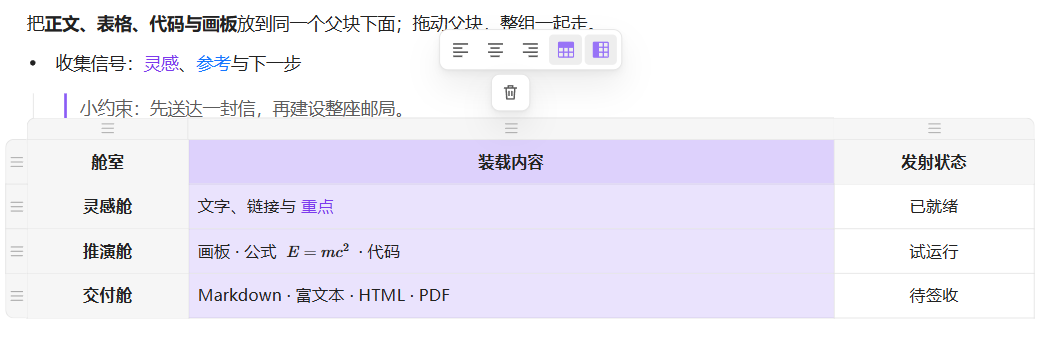
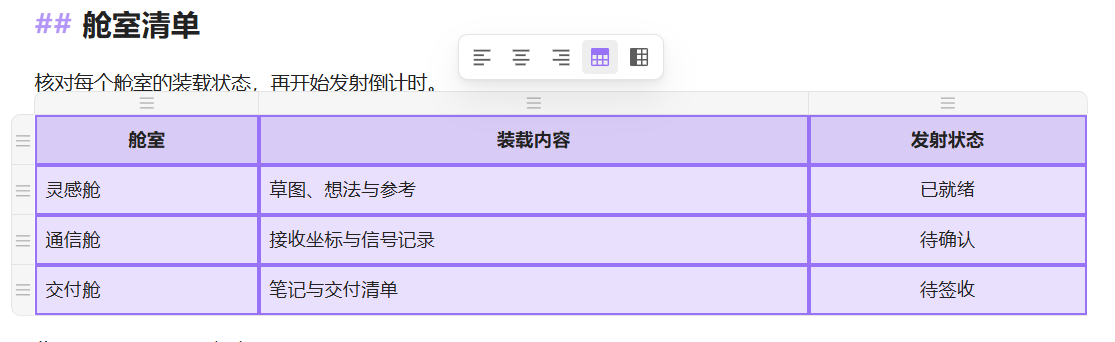
docs: refresh README feature screenshots

diff --git a/README.md b/README.md
@@ -12,19 +12,25 @@
 
 The **Moonpost** demo brings a small project's plan, sketches and deliverables into one note. These are real editor screenshots, using synthetic content.
 
-## Structure beyond a list
+## Block hierarchy and heading lists
 
 Nest paragraphs, tables, quotes, code and media under the same parent. Drag the parent to move the group, use Tab / Shift+Tab to adjust depth, and fold list children when you need less detail. Hierarchy guides keep the relationships visible.
 
-Heading numbers such as **1.2.3** follow the actual heading levels and appear in Obsidian's native outline. Body lists keep their own numbering.
+H1–H4 can mix unordered and ordered list styles and appear in Obsidian’s native outline. When a level uses both styles, both buttons light up. Click either to apply one style across that level.
 
-![Mixed child blocks, heading numbering and hierarchy guides](assets/tour-structure.png)
+![Both H2 styles are active in the heading list menu, with different prefixes and a nested quote in the note](assets/tour-heading-lists.png)
 
 ## Tables that you can work in
 
-Select cells, rectangles, rows or columns; adjust alignment and header rows/columns from the floating toolbar. Paste a grid at the selected cell to fill and expand the table, with one-step undo. Wide tables scroll horizontally with directional edge hints.
+Select cells, regions, rows, columns or whole tables. A drag selection across body text and a table treats the selected table as a block. Undo restores deleted tables. Use the floating toolbar to adjust alignment and headers, or paste a grid to expand the table as needed.
 
-![Column selection, distinct header shading and floating table controls](assets/tour-table.png)
+![A whole table is selected with its floating toolbar above it](assets/tour-table.png)
+
+## Give AI your note context
+
+Select text and choose **Copy as AI quote** from the context menu, or use the customizable Ctrl+Shift+C shortcut (⌘⇧C on macOS). Paste the plain Markdown excerpt, local note path, and quote location into any AI client. **Settings → Blo Editor → AI collaboration** also provides a note Skill and directory rules for AI tools with file access.
+
+![AI collaboration settings show the note Skill, directory rules and AI quote instructions](assets/tour-ai-collaboration.png)
 
 ## Text, sketches and references together
 
@@ -48,7 +54,7 @@ Export **Markdown**, copy **rich text for cloud documents**, or save **HTML** an
 
 ![The four export choices](assets/tour-export.png)
 
-Also included: `/` commands, find/replace, automatic saving, reading mode and an optional floating memo integration. The bundled **blo-editor-notes** Skill helps file-capable AI tools write Blo's block structure, tables and editable drawings. Copy its installation/update prompt from **Settings → Blo Editor → AI collaboration** and give it to your AI tool.
+Also included are `/` commands, find/replace, automatic saving, reading mode and an optional floating memo integration.
 
 ## Try it
 

diff --git a/README.zh-CN.md b/README.zh-CN.md
@@ -10,19 +10,25 @@
 
 演示笔记「**月面邮局**」把一个小项目的计划、草图和交付资料放在一起。截图均来自真实编辑器，使用虚构的公开演示内容。
 
-## 不只给列表缩进
+## 块层级与标题列表
 
 正文、表格、引用、代码和媒体，都能成为同一个父块的子块。拖动父块，整组内容一起移动；用 Tab / Shift+Tab 调整层级，用折叠收起列表子块，层级竖线让关系清晰可见。
 
-标题可以按层级显示 **1.2.3** 编号，并同步到 Obsidian 原生大纲；正文列表保留自己的编号序列。
+H1～H4 可以混用无序和有序列表，并同步到 Obsidian 原生大纲。同级标题混用时，工具栏的两排按钮会同时显示当前样式，点一下即可统一该级格式。
 
-![混合类型的父子块、标题编号与层级竖线](assets/tour-structure.png)
+![标题列表子菜单中两种 H2 样式同时高亮，正文展示不同前缀与嵌套引用](assets/tour-heading-lists.png)
 
 ## 表格，也能顺手编辑
 
-按单元格、矩形区域、整行或整列选中，通过浮动工具栏调整对齐和标题行／列。粘贴表格时，从选中位置填入并按需扩展，整次操作一次撤销。宽表格可横向滚动，溢出方向有阴影提示。
+按单元格、区域、整行、整列或整表选中。拖选覆盖正文和表格时，选中的表格按整块处理，删除后可以撤销。浮动工具栏可调整对齐和标题行／列，粘贴表格时按需扩展。
 
-![整列选中、标题底色区分与表格浮动工具栏](assets/tour-table.png)
+![整张表格处于选中状态，表格上方显示浮动工具栏](assets/tour-table.png)
+
+## 把笔记上下文交给 AI
+
+选中文字后，右键「复制为 AI 引用」，或使用可自定义的 Ctrl+Shift+C（macOS 为 ⌘⇧C）。复制内容包含精简 Markdown、笔记的本机路径和引用位置，可粘贴到任意 AI 客户端。「设置 → Blo Editor → AI 协作」还提供笔记 Skill 和目录规则，供具备文件访问能力的 AI 使用。
+
+![AI 协作设置中的笔记 Skill、目录规则和 AI 引用说明](assets/tour-ai-collaboration.png)
 
 ## 文字、草图与资料，留在一起
 
@@ -46,7 +52,7 @@
 
 ![Markdown、云文档富文本、HTML 与 PDF 四种导出方式](assets/tour-export.png)
 
-还包括 `/` 命令、查找替换、自动保存、阅读模式，以及可选的浮动速记集成。随插件提供的 **blo-editor-notes** Skill 可让具备文件访问能力的 AI 学会编写 Blo 父子块、表格及可编辑画板。在「**设置 → Blo Editor → AI 协作**」复制安装提示词，交给 AI 完成安装或更新。
+还包括 `/` 命令、查找替换、自动保存、阅读模式，以及可选的浮动速记集成。
 
 ## 开始使用
 
